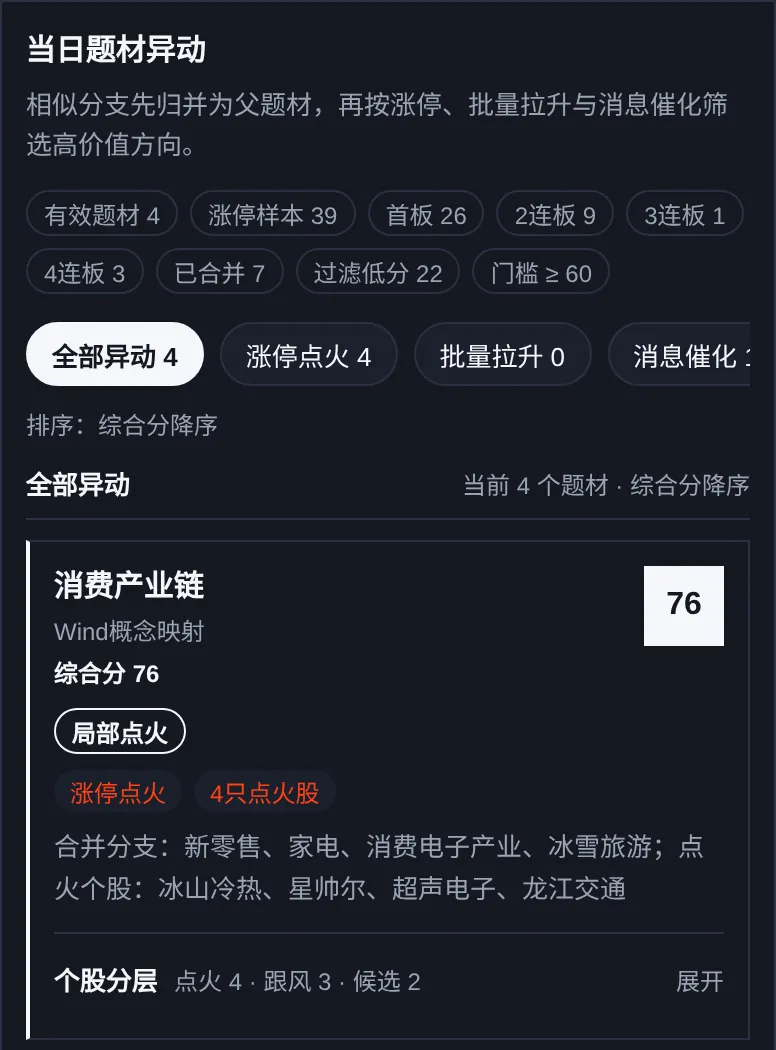
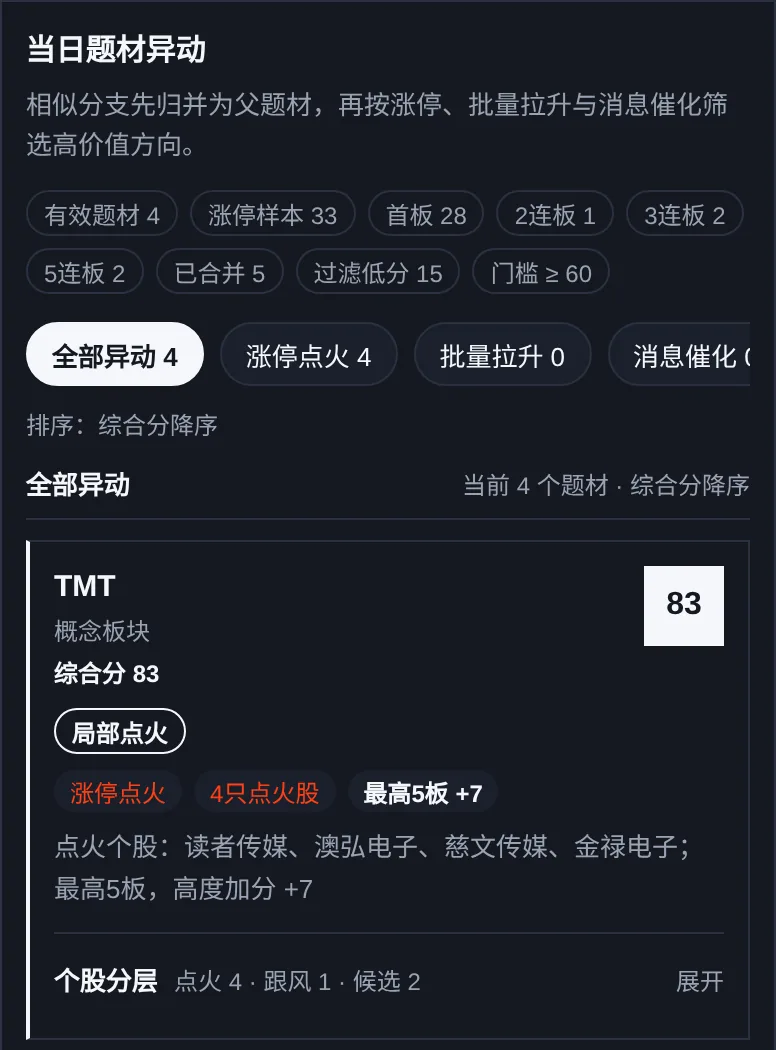
頁面不再到處標註 Wind；介紹頁新增「用 Wind MCP 數據搭建」
- 看板：移除「Wind 全A口徑」「A股 Wind 概念」「Wind 結構化取數」「數據來源：萬得 Wind」等字樣，
  刷新提示、匯出圖片頁尾、新聞來源預設值同步改為中性說法；舊快照裡殘留的字樣顯示時過濾
- 介紹頁：拿掉散落的來源說明，改為一節介紹本產品使用 Wind Alice Market 的 MCP 數據搭建
- 介紹頁題材截圖重拍（不再出現「Wind概念映射」）
- 測試：看板與登入頁不得出現 Wind / 萬得；介紹頁只在數據來源一節出現

Claude-Session: https://claude.ai/code/session_01WGjhtYibt8bANeYL57gnTo

diff --git a/public/short-emotion/app.js b/public/short-emotion/app.js
@@ -1,4 +1,4 @@
-import { HANT, HANT_FIXES } from "./hant-map.js?v=5";
+import { HANT, HANT_FIXES } from "./hant-map.js?v=6";
 
 const $ = (selector, root = document) => root.querySelector(selector);
 const $$ = (selector, root = document) => [...root.querySelectorAll(selector)];
@@ -18,15 +18,15 @@ const MARKETS = {
     indexPrefix: "全A",
     indexCode: "881001.WI",
     amountLabel: "两市成交额",
-    amountNote: "Wind 全A口径",
+    amountNote: "全A口径",
     themeTitle: "题材热度排名",
-    themePill: "A股 Wind 概念",
+    themePill: "A股概念板块",
     themesTab: "题材雷达",
     breadthTitle: "市场广度",
     breadthUnit: "家数",
     anomalyTitle: "当日题材异动",
     anomalyDesc: "相似分支先归并为父题材，再按涨停、批量拉升与消息催化筛选高价值方向。",
-    emptyThemes: "Wind 暂未返回A股概念排名。",
+    emptyThemes: "暂未取得A股概念排名。",
     // 盘中曲线：09:25–11:30、13:00–15:00（午休压缩掉）
     sessions: [[565, 690], [780, 900]],
     slotsWide: [[565, "09:25"], [600, "10:00"], [690, "11:30"], [810, "13:30"], [870, "14:30"], [900, "15:00"]],
@@ -48,7 +48,7 @@ const MARKETS = {
     breadthUnit: "产业",
     anomalyTitle: "当日产业异动",
     anomalyDesc: "以证交所产业指数为题材，并纳入新闻点名的族群；按涨停（涨幅≥9.5%）与消息催化筛选。",
-    emptyThemes: "Wind 暂未返回台股产业排名。",
+    emptyThemes: "暂未取得台股产业排名。",
     // 台股连续交易 09:00–13:30
     sessions: [[540, 815]],
     slotsWide: [[540, "09:00"], [600, "10:00"], [660, "11:00"], [720, "12:00"], [780, "13:00"], [810, "13:30"]],
@@ -172,6 +172,16 @@ const API_BASE = "/api/short-emotion";
 
 // fresh=true：刚完成一次刷新，跳过 CDN 与服务端缓存，直接读数据分支最新提交。
 let readFresh = false;
+// 页面不标注数据供应商：旧快照或新闻来源里残留的「Wind」「万得」字样在显示时去掉。
+function plain(text, fallback = "") {
+  const output = String(text ?? "")
+    .replace(/(?:万得|萬得)\s*/g, "")
+    .replace(/Wind\s*(?:MCP|AI Fin Market)?\s*/gi, "")
+    .replace(/^[\s·:：、，,（(]+|[\s·:：、，,）)]+$/g, "")
+    .trim();
+  return output || fallback;
+}
+
 async function api(resource, { fresh = readFresh } = {}) {
   const extra = fresh ? `&fresh=1&t=${Date.now()}` : "";
   const response = await fetch(`${API_BASE}?market=${MARKET}&resource=${encodeURIComponent(resource)}${extra}`, { headers: { Accept: "application/json" }, cache: fresh ? "no-store" : "default" });
@@ -216,13 +226,13 @@ function renderHeader() {
   setText("#connection", status);
   const quoteLabel = data.endOfDay && quote ? `收盘数据 ${quote.slice(0, 5)}` : quote ? `行情时间 ${quote}` : "未返回行情时间";
   setText("#quote-time", `${quoteLabel}${stored ? ` · 快照 ${stored}` : ""}`);
-  if (data.schedule) setText("#schedule-note", data.schedule);
+  if (data.schedule) setText("#schedule-note", plain(data.schedule));
   reportToolbarState({ connection: status, quoteTime: quote ? `行情时间 ${quote}` : "未返回行情时间", partial: data.partial });
 }
 
 function reportToolbarState(overrides = {}) {
   if (!isEmbedded || window.parent === window) return;
-  window.parent.postMessage({ type: "emotion-toolbar-state", connection: data?.partial ? "Wind 部分数据可用" : "Wind 数据已连接", quoteTime: data?.quoteTime ? `行情时间 ${String(data.quoteTime).replace(/^(\d{8})\s?/, "$1 ")}` : "等待行情时间", partial: Boolean(data?.partial), ...overrides }, "*");
+  window.parent.postMessage({ type: "emotion-toolbar-state", connection: data?.partial ? "部分数据可用" : "数据已连接", quoteTime: data?.quoteTime ? `行情时间 ${String(data.quoteTime).replace(/^(\d{8})\s?/, "$1 ")}` : "等待行情时间", partial: Boolean(data?.partial), ...overrides }, "*");
 }
 
 function renderPulse() {
@@ -384,13 +394,13 @@ function renderAnomalies() {
           ? `${item.news?.length || 0}条催化`
           : `综合分 ${activeScore}`;
     const showNews = (anomalyFilter === "all" || anomalyFilter === "news") && item.news?.length;
-    const newsCards = showNews ? `<div class="catalyst-news-list">${item.news.slice(0, 3).map((article) => `<article class="catalyst-news"><div class="catalyst-news-head"><b>${escapeHtml(article.title || "Wind市场消息")}</b><span>${escapeHtml(article.source || "Wind财经新闻")}${article.date ? ` · ${escapeHtml(article.date)}` : ""}</span></div><p><strong>刺激观点</strong>${escapeHtml(article.viewpoint || article.catalyst || "正文观点待补充")}</p><p><strong>可能影响</strong>${escapeHtml(article.impact || article.relation || `需要继续验证该消息对${item.name}基本面预期的实际影响。`)}</p>${article.matchedKeywords?.length ? `<div class="catalyst-keywords">${article.matchedKeywords.map((keyword) => `<i>${escapeHtml(keyword)}</i>`).join("")}${Number.isFinite(Number(article.relevanceScore)) ? `<em>关联度 ${article.relevanceScore}</em>` : ""}</div>` : ""}</article>`).join("")}</div>` : "";
+    const newsCards = showNews ? `<div class="catalyst-news-list">${item.news.slice(0, 3).map((article) => `<article class="catalyst-news"><div class="catalyst-news-head"><b>${escapeHtml(plain(article.title, "市场消息"))}</b><span>${escapeHtml(plain(article.source, "财经新闻"))}${article.date ? ` · ${escapeHtml(article.date)}` : ""}</span></div><p><strong>刺激观点</strong>${escapeHtml(article.viewpoint || article.catalyst || "正文观点待补充")}</p><p><strong>可能影响</strong>${escapeHtml(article.impact || article.relation || `需要继续验证该消息对${item.name}基本面预期的实际影响。`)}</p>${article.matchedKeywords?.length ? `<div class="catalyst-keywords">${article.matchedKeywords.map((keyword) => `<i>${escapeHtml(keyword)}</i>`).join("")}${Number.isFinite(Number(article.relevanceScore)) ? `<em>关联度 ${article.relevanceScore}</em>` : ""}</div>` : ""}</article>`).join("")}</div>` : "";
     const displayStatus = anomalyFilter === "limit" ? "涨停点火" : anomalyFilter === "batch" ? "批量拉升" : anomalyFilter === "news" ? "消息催化" : item.status;
     const batchChip = (anomalyFilter === "all" || anomalyFilter === "batch") && item.shortMove != null && Number.isFinite(Number(item.shortMove)) ? `<span class="anomaly-chip batch">5分钟 ${formatPct(item.shortMove)}</span>` : "";
     const limitChip = (anomalyFilter === "all" || anomalyFilter === "limit") && item.limitStocks?.length ? `<span class="anomaly-chip limit">${item.limitStocks.length}只点火股</span>` : "";
     const highBoardChip = (anomalyFilter === "all" || anomalyFilter === "limit") && item.ladder?.maxStreak >= 3 ? `<span class="anomaly-chip ladder">最高${item.ladder.maxStreak}板 +${item.ladder.highBoardBonus}</span>` : "";
     const fullLadderChip = (anomalyFilter === "all" || anomalyFilter === "limit") && item.ladder?.contiguousDepth >= 3 ? `<span class="anomaly-chip ladder">完整1-${item.ladder.contiguousDepth}板 +${item.ladder.ladderBonus}</span>` : "";
-    return `<article class="anomaly-card filter-${anomalyFilter}${index < 3 ? " primary" : ""}"><div class="anomaly-card-head"><div><b>${escapeHtml(item.name)}</b><small>${escapeHtml(item.code || "Wind概念映射")}</small><em class="anomaly-rank-metric">${rankingMetric}</em></div><span class="anomaly-score">${activeScore}</span></div><span class="anomaly-status">${escapeHtml(displayStatus)}</span><div class="anomaly-evidence">${chips}${batchChip}${limitChip}${highBoardChip}${fullLadderChip}</div><p class="anomaly-detail" title="${escapeHtml(detail)}">${escapeHtml(detail)}</p>${newsCards}<details class="stock-details" data-theme="${escapeHtml(item.name)}"${stockDetailsOpen(item.name) ? " open" : ""}><summary>个股分层 <small>点火 ${(item.limitStocks || []).length} · 跟风 ${(item.followers || []).length} · 候选 ${(item.rideable || []).length}</small></summary><div class="stock-layers"><section class="role-section ignition"><h4>点火个股 <small>率先封板</small></h4>${stockItems(item.limitStocks || [], "ignition")}</section><section class="role-section follower"><h4>跟风个股 <small>同步走强未封板</small></h4>${stockItems(item.followers || [], "follower")}</section><section class="role-section ride"><h4>候选上车 <small>需等待触发</small></h4>${stockItems(item.rideable || [], "ride")}</section></div></details></article>`;
+    return `<article class="anomaly-card filter-${anomalyFilter}${index < 3 ? " primary" : ""}"><div class="anomaly-card-head"><div><b>${escapeHtml(item.name)}</b><small>${escapeHtml(item.code || "概念板块")}</small><em class="anomaly-rank-metric">${rankingMetric}</em></div><span class="anomaly-score">${activeScore}</span></div><span class="anomaly-status">${escapeHtml(displayStatus)}</span><div class="anomaly-evidence">${chips}${batchChip}${limitChip}${highBoardChip}${fullLadderChip}</div><p class="anomaly-detail" title="${escapeHtml(detail)}">${escapeHtml(detail)}</p>${newsCards}<details class="stock-details" data-theme="${escapeHtml(item.name)}"${stockDetailsOpen(item.name) ? " open" : ""}><summary>个股分层 <small>点火 ${(item.limitStocks || []).length} · 跟风 ${(item.followers || []).length} · 候选 ${(item.rideable || []).length}</small></summary><div class="stock-layers"><section class="role-section ignition"><h4>点火个股 <small>率先封板</small></h4>${stockItems(item.limitStocks || [], "ignition")}</section><section class="role-section follower"><h4>跟风个股 <small>同步走强未封板</small></h4>${stockItems(item.followers || [], "follower")}</section><section class="role-section ride"><h4>候选上车 <small>需等待触发</small></h4>${stockItems(item.rideable || [], "ride")}</section></div></details></article>`;
   }).join("");
 }
 
@@ -547,7 +557,7 @@ async function loadNews() {
     const items = payload.items || [];
     const asOf = shanghaiTimeLabel(payload.asOf);
     setText("#news-asof", asOf ? `快照 ${asOf}` : "等待快照");
-    $("#news-list").innerHTML = items.length ? items.slice(0, 5).map((item) => `<article class="news-item"><b>${escapeHtml(item.title || "Wind 市场信息")}</b><span>${escapeHtml(item.date || "")} · 相关度 ${Number(item.relevance || 0).toFixed(2)}</span><p>${escapeHtml(String(item.content || "").slice(0, 170))}${String(item.content || "").length > 170 ? "…" : ""}</p></article>`).join("") : '<div class="empty">暂无新闻快照，交易日 09:00 起每 30 分钟更新。</div>';
+    $("#news-list").innerHTML = items.length ? items.slice(0, 5).map((item) => `<article class="news-item"><b>${escapeHtml(plain(item.title, "市场消息"))}</b><span>${escapeHtml(item.date || "")} · 相关度 ${Number(item.relevance || 0).toFixed(2)}</span><p>${escapeHtml(String(item.content || "").slice(0, 170))}${String(item.content || "").length > 170 ? "…" : ""}</p></article>`).join("") : '<div class="empty">暂无新闻快照，交易日 09:00 起每 30 分钟更新。</div>';
   } catch (error) {
     $("#news-list").innerHTML = `<div class="empty">${escapeHtml(error.message)}</div>`;
     toast(error.message, true);
@@ -587,7 +597,7 @@ function exportHeader(subtitle = "") {
 function exportFooter() {
   const footer = document.createElement("div");
   footer.className = "export-footer";
-  footer.textContent = toHant(`ShortEmotion · 数据来源 Wind · 仅用于研究与情绪观察，不构成投资建议`);
+  footer.textContent = toHant(`ShortEmotion · 仅用于研究与情绪观察，不构成投资建议`);
   return footer;
 }
 
@@ -842,20 +852,20 @@ function updateRefreshButton() {
   if (refreshRun.active) {
     button.disabled = true;
     button.textContent = "更新中…";
-    button.title = "正在从 Wind 获取最新数据";
+    button.title = "正在获取最新数据";
     return;
   }
   if (button.dataset.loading === "1") return;
   const left = refreshCooldownLeft();
   button.disabled = left > 0;
   button.textContent = left > 0 ? `${Math.ceil(left / 60_000)}分钟后可刷新` : "刷新";
-  button.title = left > 0 ? "刷新每小时只能使用一次；交易时段每 30 分钟也会自动更新" : "从 Wind 获取最新数据";
+  button.title = left > 0 ? "刷新每小时只能使用一次；交易时段每 30 分钟也会自动更新" : "获取最新数据";
 }
 
 const REFRESH_STEPS = {
   submitted: "已提交更新请求，等待任务启动…",
   queued: "排队中，即将开始获取数据…",
-  in_progress: "正在从 Wind MCP 获取最新数据…",
+  in_progress: "正在获取最新数据…",
   reading: "数据已写入，正在读取新快照…"
 };
 

diff --git a/public/short-emotion/hant-map.js b/public/short-emotion/hant-map.js
@@ -1,11 +1,11 @@
 // 自动生成：scripts/short-emotion/build-hant-map.mjs（opencc-js cn→tw，逐字），请勿手改。
 // 台股页面（/tw-short-emotion）用它把界面文字转成繁体；数据在定时任务里已用 opencc 按词转换。
-export const HANT = {"万":"萬","与":"與","业":"業","丝":"絲","两":"兩","个":"個","为":"為","举":"舉","么":"麼","书":"書","买":"買","于":"於","亏":"虧","云":"雲","产":"產","亿":"億","仅":"僅","从":"從","仓":"倉","们":"們","价":"價","众":"眾","优":"優","会":"會","传":"傳","体":"體","侧":"側","债":"債","储":"儲","兑":"兌","关":"關","内":"內","册":"冊","写":"寫","军":"軍","农":"農","冲":"衝","决":"決","净":"淨","准":"準","减":"減","几":"幾","凭":"憑","击":"擊","划":"劃","则":"則","刚":"剛","创":"創","别":"別","剧":"劇","办":"辦","务":"務","动":"動","励":"勵","势":"勢","区":"區","医":"醫","华":"華","单":"單","占":"佔","卫":"衛","历":"歷","压":"壓","参":"參","发":"發","变":"變","叠":"疊","台":"臺","号":"號","后":"後","启":"啟","响":"響","唤":"喚","围":"圍","国":"國","图":"圖","圆":"圓","场":"場","块":"塊","垦":"墾","声":"聲","壳":"殼","处":"處","备":"備","复":"復","头":"頭","学":"學","实":"實","审":"審","对":"對","导":"導","寿":"壽","将":"將","尝":"嘗","层":"層","属":"屬","岩":"巖","币":"幣","带":"帶","并":"並","广":"廣","库":"庫","应":"應","开":"開","异":"異","弃":"棄","张":"張","弹":"彈","强":"強","归":"歸","当":"當","录":"錄","径":"徑","态":"態","总":"總","恶":"惡","户":"戶","执":"執","扩":"擴","扰":"擾","抛":"拋","抢":"搶","报":"報","挂":"掛","损":"損","换":"換","据":"據","撑":"撐","敛":"斂","数":"數","断":"斷","无":"無","旧":"舊","时":"時","显":"顯","晋":"晉","暂":"暫","术":"術","机":"機","杂":"雜","权":"權","杠":"槓","条":"條","来":"來","极":"極","构":"構","枢":"樞","柜":"櫃","标":"標","栏":"欄","样":"樣","档":"檔","桩":"樁","检":"檢","槛":"檻","横":"橫","气":"氣","没":"沒","沪":"滬","浅":"淺","测":"測","济":"濟","浏":"瀏","润":"潤","涨":"漲","淀":"澱","渗":"滲","温":"溫","游":"遊","湾":"灣","滚":"滾","满":"滿","滤":"濾","潜":"潛","灵":"靈","灾":"災","点":"點","炼":"煉","热":"熱","状":"狀","献":"獻","环":"環","现":"現","电":"電","疗":"療","盖":"蓋","盘":"盤","矿":"礦","码":"碼","础":"礎","确":"確","种":"種","积":"積","称":"稱","税":"稅","稳":"穩","竞":"競","笔":"筆","筑":"築","筛":"篩","筹":"籌","签":"籤","简":"簡","类":"類","粮":"糧","紧":"緊","红":"紅","纤":"纖","约":"約","级":"級","纬":"緯","纳":"納","纸":"紙","纺":"紡","线":"線","组":"組","细":"細","织":"織","终":"終","绍":"紹","经":"經","结":"結","绕":"繞","绘":"繪","给":"給","络":"絡","统":"統","继":"繼","绩":"績","绪":"緒","续":"續","维":"維","综":"綜","绿":"綠","缆":"纜","缓":"緩","编":"編","缩":"縮","网":"網","联":"聯","胶":"膠","节":"節","范":"範","荐":"薦","荡":"蕩","荣":"榮","药":"藥","获":"獲","营":"營","补":"補","装":"裝","见":"見","观":"觀","规":"規","视":"視","览":"覽","觉":"覺","触":"觸","计":"計","订":"訂","认":"認","让":"讓","议":"議","讯":"訊","记":"記","设":"設","访":"訪","证":"證","评":"評","识":"識","诉":"訴","词":"詞","试":"試","询":"詢","该":"該","语":"語","误":"誤","请":"請","读":"讀","调":"調","谨":"謹","负":"負","贡":"貢","财":"財","责":"責","败":"敗","账":"賬","货":"貨","贴":"貼","贸":"貿","费":"費","资":"資","赖":"賴","赚":"賺","趋":"趨","跃":"躍","踪":"蹤","车":"車","轨":"軌","转":"轉","轮":"輪","软":"軟","载":"載","较":"較","辑":"輯","输":"輸","边":"邊","达":"達","过":"過","运":"運","还":"還","这":"這","进":"進","违":"違","连":"連","适":"適","选":"選","邮":"郵","采":"採","释":"釋","里":"裡","针":"針","钟":"鍾","钢":"鋼","钨":"鎢","钩":"鉤","钮":"鈕","钱":"錢","铁":"鐵","铜":"銅","铝":"鋁","银":"銀","链":"鏈","销":"銷","锂":"鋰","错":"錯","锚":"錨","键":"鍵","镜":"鏡","长":"長","门":"門","闭":"閉","问":"問","间":"間","闻":"聞","队":"隊","阳":"陽","阴":"陰","阶":"階","际":"際","陆":"陸","险":"險","随":"隨","页":"頁","顶":"頂","项":"項","顺":"順","须":"須","顾":"顧","预":"預","领":"領","频":"頻","颖":"穎","题":"題","额":"額","风":"風","饭":"飯","饮":"飲","饱":"飽","馈":"饋","驶":"駛","驾":"駕","验":"驗","鲜":"鮮","鸿":"鴻","黄":"黃","齐":"齊","龙":"龍"};
+export const HANT = {"万":"萬","与":"與","业":"業","东":"東","丝":"絲","两":"兩","个":"個","为":"為","举":"舉","么":"麼","乡":"鄉","书":"書","买":"買","于":"於","亏":"虧","云":"雲","产":"產","亿":"億","仅":"僅","从":"從","仓":"倉","们":"們","价":"價","众":"眾","优":"優","会":"會","传":"傳","体":"體","侧":"側","债":"債","储":"儲","兑":"兌","关":"關","兴":"興","养":"養","内":"內","册":"冊","写":"寫","军":"軍","农":"農","冲":"衝","决":"決","净":"淨","准":"準","减":"減","几":"幾","凭":"憑","击":"擊","划":"劃","则":"則","刚":"剛","创":"創","别":"別","剧":"劇","办":"辦","务":"務","动":"動","励":"勵","势":"勢","区":"區","医":"醫","华":"華","单":"單","占":"佔","卫":"衛","厂":"廠","历":"歷","压":"壓","参":"參","双":"雙","发":"發","变":"變","叠":"疊","台":"臺","号":"號","后":"後","启":"啟","员":"員","响":"響","唤":"喚","团":"團","围":"圍","国":"國","图":"圖","圆":"圓","场":"場","块":"塊","垦":"墾","声":"聲","壳":"殼","处":"處","备":"備","复":"復","够":"夠","头":"頭","学":"學","实":"實","宠":"寵","审":"審","对":"對","导":"導","寿":"壽","将":"將","尝":"嘗","层":"層","属":"屬","岩":"巖","币":"幣","带":"帶","并":"並","广":"廣","库":"庫","应":"應","开":"開","异":"異","弃":"棄","张":"張","弹":"彈","强":"強","归":"歸","当":"當","录":"錄","径":"徑","态":"態","总":"總","恶":"惡","戏":"戲","户":"戶","执":"執","扩":"擴","扰":"擾","抛":"拋","抢":"搶","报":"報","拟":"擬","挂":"掛","损":"損","换":"換","据":"據","撑":"撐","敛":"斂","数":"數","断":"斷","无":"無","旧":"舊","时":"時","显":"顯","晋":"晉","暂":"暫","术":"術","机":"機","杂":"雜","权":"權","杠":"槓","条":"條","来":"來","极":"極","构":"構","枢":"樞","柜":"櫃","标":"標","栏":"欄","样":"樣","档":"檔","桩":"樁","检":"檢","槛":"檻","横":"橫","残":"殘","气":"氣","氢":"氫","没":"沒","沪":"滬","浅":"淺","测":"測","济":"濟","浏":"瀏","润":"潤","涨":"漲","淀":"澱","渗":"滲","温":"溫","游":"遊","湾":"灣","滚":"滾","满":"滿","滤":"濾","潜":"潛","灵":"靈","灾":"災","点":"點","炼":"煉","热":"熱","状":"狀","猪":"豬","献":"獻","环":"環","现":"現","琼":"瓊","电":"電","疗":"療","盖":"蓋","盘":"盤","矿":"礦","码":"碼","础":"礎","确":"確","离":"離","种":"種","积":"積","称":"稱","税":"稅","稳":"穩","竞":"競","笔":"筆","筑":"築","筛":"篩","筹":"籌","签":"籤","简":"簡","类":"類","粤":"粵","粮":"糧","紧":"緊","红":"紅","纤":"纖","约":"約","级":"級","纬":"緯","纳":"納","纸":"紙","纺":"紡","线":"線","组":"組","细":"細","织":"織","终":"終","绍":"紹","经":"經","结":"結","绕":"繞","绘":"繪","给":"給","络":"絡","统":"統","继":"繼","绩":"績","绪":"緒","续":"續","维":"維","综":"綜","绿":"綠","缆":"纜","缓":"緩","编":"編","缩":"縮","网":"網","罗":"羅","联":"聯","胶":"膠","节":"節","范":"範","荐":"薦","荡":"蕩","荣":"榮","药":"藥","获":"獲","营":"營","蓝":"藍","虚":"虛","补":"補","装":"裝","见":"見","观":"觀","规":"規","视":"視","览":"覽","觉":"覺","触":"觸","计":"計","订":"訂","认":"認","让":"讓","议":"議","讯":"訊","记":"記","设":"設","访":"訪","证":"證","评":"評","识":"識","诉":"訴","词":"詞","试":"試","询":"詢","该":"該","语":"語","误":"誤","请":"請","读":"讀","调":"調","谨":"謹","贝":"貝","负":"負","贡":"貢","财":"財","责":"責","败":"敗","账":"賬","货":"貨","质":"質","购":"購","贴":"貼","贵":"貴","贷":"貸","贸":"貿","费":"費","资":"資","赖":"賴","赚":"賺","趋":"趨","跃":"躍","踪":"蹤","车":"車","轨":"軌","转":"轉","轮":"輪","软":"軟","载":"載","较":"較","辑":"輯","输":"輸","边":"邊","达":"達","过":"過","运":"運","还":"還","这":"這","进":"進","违":"違","连":"連","适":"適","选":"選","逻":"邏","邮":"郵","采":"採","释":"釋","里":"裡","针":"針","钟":"鍾","钠":"鈉","钢":"鋼","钨":"鎢","钩":"鉤","钮":"鈕","钱":"錢","铁":"鐵","铜":"銅","铝":"鋁","铟":"銦","银":"銀","链":"鏈","销":"銷","锂":"鋰","错":"錯","锚":"錨","键":"鍵","镇":"鎮","镓":"鎵","镜":"鏡","长":"長","门":"門","闭":"閉","问":"問","间":"間","闻":"聞","队":"隊","阳":"陽","阴":"陰","阶":"階","际":"際","陆":"陸","险":"險","随":"隨","页":"頁","顶":"頂","项":"項","顺":"順","须":"須","顾":"顧","预":"預","领":"領","频":"頻","颖":"穎","题":"題","额":"額","风":"風","饭":"飯","饮":"飲","饱":"飽","馈":"饋","马":"馬","驶":"駛","驾":"駕","验":"驗","鲜":"鮮","鸿":"鴻","黄":"黃","齐":"齊","龙":"龍"};
 
 // 与 api/_lib/short-emotion/hant.js 保持一致：日常写法用「台」，以及证交所产业正式名称。
 export const HANT_FIXES = [
   [/臺/g, "台"], [/拉昇/g, "拉升"], [/信息服務/g, "資訊服務"], [/計算機及外圍(?:裝置|設備)/g, "電腦及週邊設備"],
   [/計算機/g, "電腦"], [/外圍(?:裝置|設備)/g, "週邊設備"], [/零元件/g, "零組件"], [/軟件/g, "軟體"], [/網絡/g, "網路"], [/鍾/g, "鐘"],
   // 登录界面：台湾用语
-  [/退出登錄/g, "登出"], [/登錄/g, "登入"], [/賬號/g, "帳號"], [/郵箱/g, "信箱"], [/注冊/g, "註冊"]
+  [/退出登錄/g, "登出"], [/登錄/g, "登入"], [/賬號/g, "帳號"], [/郵箱/g, "信箱"], [/注冊/g, "註冊"], [/接口/g, "介面"]
 ];

diff --git a/public/short-emotion/index.html b/public/short-emotion/index.html
@@ -82,7 +82,7 @@
 
         <div class="metric-strip">
           <article><span id="index-label">全A涨跌幅</span><strong id="index-change">—</strong><small id="index-level">881001.WI</small></article>
-          <article><span id="amount-label">两市成交额</span><strong id="amount">—</strong><small id="amount-note">Wind 全A口径</small></article>
+          <article><span id="amount-label">两市成交额</span><strong id="amount">—</strong><small id="amount-note">全A口径</small></article>
           <article><span>昨日涨停溢价</span><strong id="premium">—</strong><small>今日平均涨跌幅</small></article>
           <article><span>涨停 / 跌停</span><strong id="limit-pair" class="limit-pair"><span class="up-text">—</span><i>/</i><span class="down-text">—</span></strong><small>极端反馈</small></article>
         </div>
@@ -97,7 +97,7 @@
         </article>
 
         <article class="card">
-          <div class="card-head"><h2 class="card-title">赚钱与亏钱尾部</h2><span class="pill">Wind 结构化取数</span></div>
+          <div class="card-head"><h2 class="card-title">赚钱与亏钱尾部</h2><span class="pill">全市场统计</span></div>
           <div class="extreme-grid">
             <div class="positive"><span>涨停</span><strong id="limit-up">—</strong></div>
             <div class="negative"><span>跌停</span><strong id="limit-down">—</strong></div>
@@ -119,13 +119,13 @@
             <button class="anomaly-filter" data-anomaly-filter="batch" type="button">批量拉升</button>
             <button class="anomaly-filter" data-anomaly-filter="news" type="button">消息催化</button>
           </div>
-          <small id="anomaly-time" class="anomaly-time">等待 Wind 异动数据</small>
+          <small id="anomaly-time" class="anomaly-time">等待异动数据</small>
           <div id="anomaly-list" class="anomaly-list"><div class="loading">正在构建多信号异动雷达…</div></div>
           <p class="anomaly-note">异动是观察线索，不等于主线确认；“候选上车”必须等待触发条件，不构成无条件买入建议。</p>
         </article>
 
         <article id="theme-ranking" class="card">
-          <div class="card-head"><h2 id="theme-title" class="card-title">题材热度排名</h2><span id="theme-pill" class="pill">A股 Wind 概念</span></div>
+          <div class="card-head"><h2 id="theme-title" class="card-title">题材热度排名</h2><span id="theme-pill" class="pill">A股概念板块</span></div>
           <div id="theme-list" class="theme-list"><div class="loading">正在读取题材排名…</div></div>
         </article>
 
@@ -147,13 +147,13 @@
       </section>
 
       <footer class="legal">
-        <p>数据来源：万得 Wind 金融数据服务 · <span id="schedule-note">交易日 09:00–15:00 每30分钟定时更新</span></p>
+        <p><span id="schedule-note">交易日 09:00–15:00 每30分钟定时更新</span></p>
         <p>仅用于研究与情绪观察，不构成投资建议；请以“行情时间”判断数据新鲜度。</p>
       </footer>
     </main>
   </div>
   <div id="toast" class="toast" role="status" aria-live="polite"></div>
   <script src="/short-emotion/vendor/html-to-image.js" defer></script>
-  <script type="module" src="/short-emotion/app.js?v=29"></script>
+  <script type="module" src="/short-emotion/app.js?v=30"></script>
 </body>
 </html>

diff --git a/public/about/index.html b/public/about/index.html
@@ -28,7 +28,7 @@
   </script>
   <link rel="preconnect" href="https://fonts.googleapis.com">
   <link href="https://fonts.googleapis.com/css2?family=Manrope:wght@500;600;700;800&family=Noto+Sans+SC:wght@400;500;600;700&display=swap" rel="stylesheet">
-  <link rel="stylesheet" href="/about/about.css?v=2">
+  <link rel="stylesheet" href="/about/about.css?v=3">
 </head>
 <body>
   <nav class="nav">
@@ -68,7 +68,7 @@
           <small class="live-time">收盘后更新</small>
         </a>
       </div>
-      <p class="hero-note">数据来自万得 Wind。分数 0–100，越高代表短线情绪越热。</p>
+      <p class="hero-note">分数 0–100，越高代表短线情绪越热。</p>
     </header>
 
     <section class="steps-intro">
@@ -107,8 +107,8 @@
         <p>按涨停点火、批量拉升和消息催化，找出当天真正在动的题材，并列出带头的个股。</p>
       </div>
       <picture class="feature-shot fade-bottom">
-        <source srcset="/about/img/themes-dark.webp" media="(prefers-color-scheme: dark)">
-        <img src="/about/img/themes-light.webp" alt="题材雷达：当日题材异动与个股" width="776" height="1050" loading="lazy">
+        <source srcset="/about/img/themes-dark.webp?v=2" media="(prefers-color-scheme: dark)">
+        <img src="/about/img/themes-light.webp?v=2" alt="题材雷达：当日题材异动与个股" width="776" height="1050" loading="lazy">
       </picture>
     </section>
 
@@ -129,13 +129,23 @@
       <div class="market-grid">
         <div>
           <h3>A股</h3>
-          <p>交易日 09:30–15:00 每 30 分钟更新一次，题材按 Wind 概念归并。</p>
+          <p>交易日 09:30–15:00 每 30 分钟更新一次，题材按概念板块归并。</p>
         </div>
         <div>
           <h3>台股</h3>
           <p>使用收盘数据，开盘前与收盘后更新；题材按证交所产业指数，界面为繁体。</p>
         </div>
       </div>
+    </section>
+
+    <section class="data-source">
+      <h2>用 Wind MCP 数据搭建</h2>
+      <p>ShortEmotion 的数据来自 Wind Alice Market 的 MCP 服务。行情、涨跌停与连板、概念板块和财经新闻都通过 MCP 接口按交易时段定时取得，再由我们的算法合成情绪分、整理成题材雷达。</p>
+      <ul class="source-list">
+        <li><b>行情与涨跌停</b><span>涨跌家数、涨跌停、连板与溢价</span></li>
+        <li><b>概念板块</b><span>板块分钟行情与成分股</span></li>
+        <li><b>财经新闻</b><span>消息催化与个股归因</span></li>
+      </ul>
     </section>
 
     <section class="boards">
@@ -154,7 +164,6 @@
     </section>
 
     <footer class="footer">
-      <p>数据来源：万得 Wind 金融数据服务。</p>
       <p>仅用于研究与情绪观察，不构成投资建议。</p>
       <p>© 2026 ShortEmotion</p>
     </footer>
@@ -167,6 +176,6 @@
     </div>
   </div>
 
-  <script type="module" src="/about/about.js?v=2"></script>
+  <script type="module" src="/about/about.js?v=3"></script>
 </body>
 </html>

diff --git a/api/_lib/short-emotion/tw-engine.js b/api/_lib/short-emotion/tw-engine.js
@@ -354,8 +354,8 @@ function industryNewsMatches(news, industryName) {
     if (!hits.length) continue;
     const sentence = text.split(/[。！？\n]/).find((part) => hits.some((keyword) => part.includes(keyword))) || article.title || "";
     matches.push({
-      title: article.title || "Wind台股新闻",
-      source: article.source || "Wind财经新闻",
+      title: article.title || "台股新闻",
+      source: article.source || "财经新闻",
       date: article.date || "",
       viewpoint: sentence.trim().slice(0, 140),
       impact: `新闻点名${hits.slice(0, 3).join("、")}，关注${industryName}资金是否持续流入。`,
@@ -508,8 +508,8 @@ export async function loadThemeAnomalies() {
         if (!members.length) continue;
         const average = members.reduce((sum, row) => sum + row.changePct, 0) / members.length;
         const articles = group.articles.slice(0, 3).map((article) => ({
-          title: article.title || "Wind台股新闻",
-          source: article.source || "Wind财经新闻",
+          title: article.title || "台股新闻",
+          source: article.source || "财经新闻",
           date: article.date || "",
           viewpoint: (`${article.title || ""}。${article.content || ""}`.split(/[。！？\n]/).find((part) => part.includes(`${group.name}族群`)) || "").trim().slice(0, 140),
           impact: `新闻点名${group.name}族群，观察资金是否持续扩散。`,

diff --git a/tests/deployment.test.js b/tests/deployment.test.js
@@ -95,6 +95,27 @@ describe("页面脚本", () => {
   });
 });
 
+describe("页面文字：不到处标注数据供应商", () => {
+  const visible = (code) => code
+    .replace(/\/\/[^\n]*/g, "")                       // 注释
+    .replace(/\/\*[\s\S]*?\*\//g, "")
+    .replace(/function plain\([\s\S]*?\n}\n/, "");    // 去除供应商字样的函数本身
+
+  it("看板与登录页不出现 Wind / 万得", () => {
+    for (const file of ["public/short-emotion/index.html", "public/short-emotion/app.js", "public/login/index.html", "public/login/login.js"]) {
+      const text = visible(readFileSync(resolve(root, file), "utf8")).replace(/window|Window/g, "");
+      expect(text, file).not.toMatch(/Wind|万得|萬得/);
+    }
+  });
+
+  it("介绍页只在「用 Wind MCP 数据搭建」一节介绍数据来源", () => {
+    const html = readFileSync(resolve(root, "public/about/index.html"), "utf8").replace(/window/g, "");
+    const section = html.match(/<section class="data-source">[\s\S]*?<\/section>/)?.[0] || "";
+    expect(section).toContain("Wind Alice Market 的 MCP 服务");
+    expect(html.replace(section, "")).not.toMatch(/Wind|万得/);
+  });
+});
+
 describe("数据任务（GitHub Actions）", () => {
   it("工作日 09:00–15:30（北京时间）每 30 分钟运行", () => {
     const schedules = [...workflow.matchAll(/-\s*cron:\s*"([^"]+)"/g)].map((m) => m[1]);

diff --git a/public/about/about.css b/public/about/about.css
@@ -176,6 +176,19 @@ h3 { font-size: 17px; font-weight: 700; line-height: 1.4; }
 .market-grid > div { display: grid; gap: 4px; align-content: start; padding: 14px; }
 .market-grid > div + div { border-left: 1px solid var(--border); }
 
+/* ── 数据来源（Wind MCP） ── */
+.data-source { display: grid; gap: 12px; }
+.data-source > p { color: var(--muted); font-size: 14px; line-height: 1.7; }
+.source-list { display: grid; grid-template-columns: repeat(3, 1fr); margin: 0; padding: 0; list-style: none; border: 1px solid var(--border); }
+.source-list li { display: grid; gap: 4px; align-content: start; padding: 12px; }
+.source-list li + li { border-left: 1px solid var(--border); }
+.source-list b { font-size: 14px; font-weight: 600; }
+.source-list span { color: var(--muted); font-size: 12px; line-height: 1.5; }
+@media (max-width: 420px) {
+  .source-list { grid-template-columns: 1fr; }
+  .source-list li + li { border-left: 0; border-top: 1px solid var(--border); }
+}
+
 /* ── 看板 ── */
 .boards { display: grid; gap: 12px; }
 .board { display: grid; gap: 14px; padding: 16px; background: var(--panel); border: 1px solid var(--border); }

diff --git a/api/_lib/short-emotion/engine.js b/api/_lib/short-emotion/engine.js
@@ -1082,9 +1082,9 @@ async function loadThemeAnomalies(force = false) {
       accepted.forEach(({ item, catalyst }) => {
         item.signals.add("news");
         if (item.news.length < 3) item.news.push({
-          title: article.title || "Wind市场消息",
+          title: article.title || "市场消息",
           date: freshness.published.raw,
-          source: article.source || article.media || article.source_name || article.provider || "Wind财经新闻",
+          source: article.source || article.media || article.source_name || article.provider || "财经新闻",
           ...catalyst
         });
         item.score += item.news.length === 1 ? 18 : 5;

diff --git a/public/login/index.html b/public/login/index.html
@@ -25,7 +25,7 @@
   </script>
   <link rel="preconnect" href="https://fonts.googleapis.com">
   <link href="https://fonts.googleapis.com/css2?family=Manrope:wght@500;600;700;800&family=Noto+Sans+SC:wght@400;500;600;700&display=swap" rel="stylesheet">
-  <link rel="stylesheet" href="/about/about.css?v=2">
+  <link rel="stylesheet" href="/about/about.css?v=3">
   <link rel="stylesheet" href="/login/login.css?v=1">
 </head>
 <body>
@@ -76,6 +76,6 @@
     <a class="back-link" href="/about">了解 ShortEmotion</a>
   </main>
 
-  <script type="module" src="/login/login.js?v=1"></script>
+  <script type="module" src="/login/login.js?v=2"></script>
 </body>
 </html>

diff --git a/public/shared/lang.js b/public/shared/lang.js
@@ -1,7 +1,7 @@
 // 介绍页、登录页共用：简体 / 繁体切换（页面原文是简体）。
 // 语言记在 localStorage「shortemotion:lang」；首次访问按浏览器语言（zh-TW / zh-HK 用繁体）。
 // 用法：initLanguage() 收集页面文字；动态文字用 setText / setAttributeText 写入，切换语言时会一起转换。
-import { HANT, HANT_FIXES } from "/short-emotion/hant-map.js?v=5";
+import { HANT, HANT_FIXES } from "/short-emotion/hant-map.js?v=6";
 
 const root = document.documentElement;
 const HANS = Object.fromEntries(Object.entries(HANT).map(([hans, hant]) => [hant, hans]));

diff --git a/public/login/login.js b/public/login/login.js
@@ -2,7 +2,7 @@
 // 1. 浏览器直接向 Supabase 申请验证码（/auth/v1/otp，未注册的邮箱自动注册），频率限制按访客自己的 IP 计算；
 // 2. 填入验证码后向 Supabase 验证（/auth/v1/verify），拿到登录凭证；
 // 3. 把凭证交给 POST /api/auth?action=session，服务端写入 HttpOnly cookie（90 天），再跳回原本要看的页面。
-import { initLanguage, setText } from "/shared/lang.js?v=1";
+import { initLanguage, setText } from "/shared/lang.js?v=2";
 
 const $ = (selector) => document.querySelector(selector);
 initLanguage();

diff --git a/public/about/about.js b/public/about/about.js
@@ -1,5 +1,5 @@
 // 介绍页 /about：简繁切换、主视觉轮换词、今日情绪（公开摘要接口，不调用 Wind）、底部登录按钮。
-import { initLanguage, setText, setAttributeText } from "/shared/lang.js?v=1";
+import { initLanguage, setText, setAttributeText } from "/shared/lang.js?v=2";
 
 const $ = (selector, root = document) => root.querySelector(selector);
 const $$ = (selector, root = document) => [...root.querySelectorAll(selector)];
